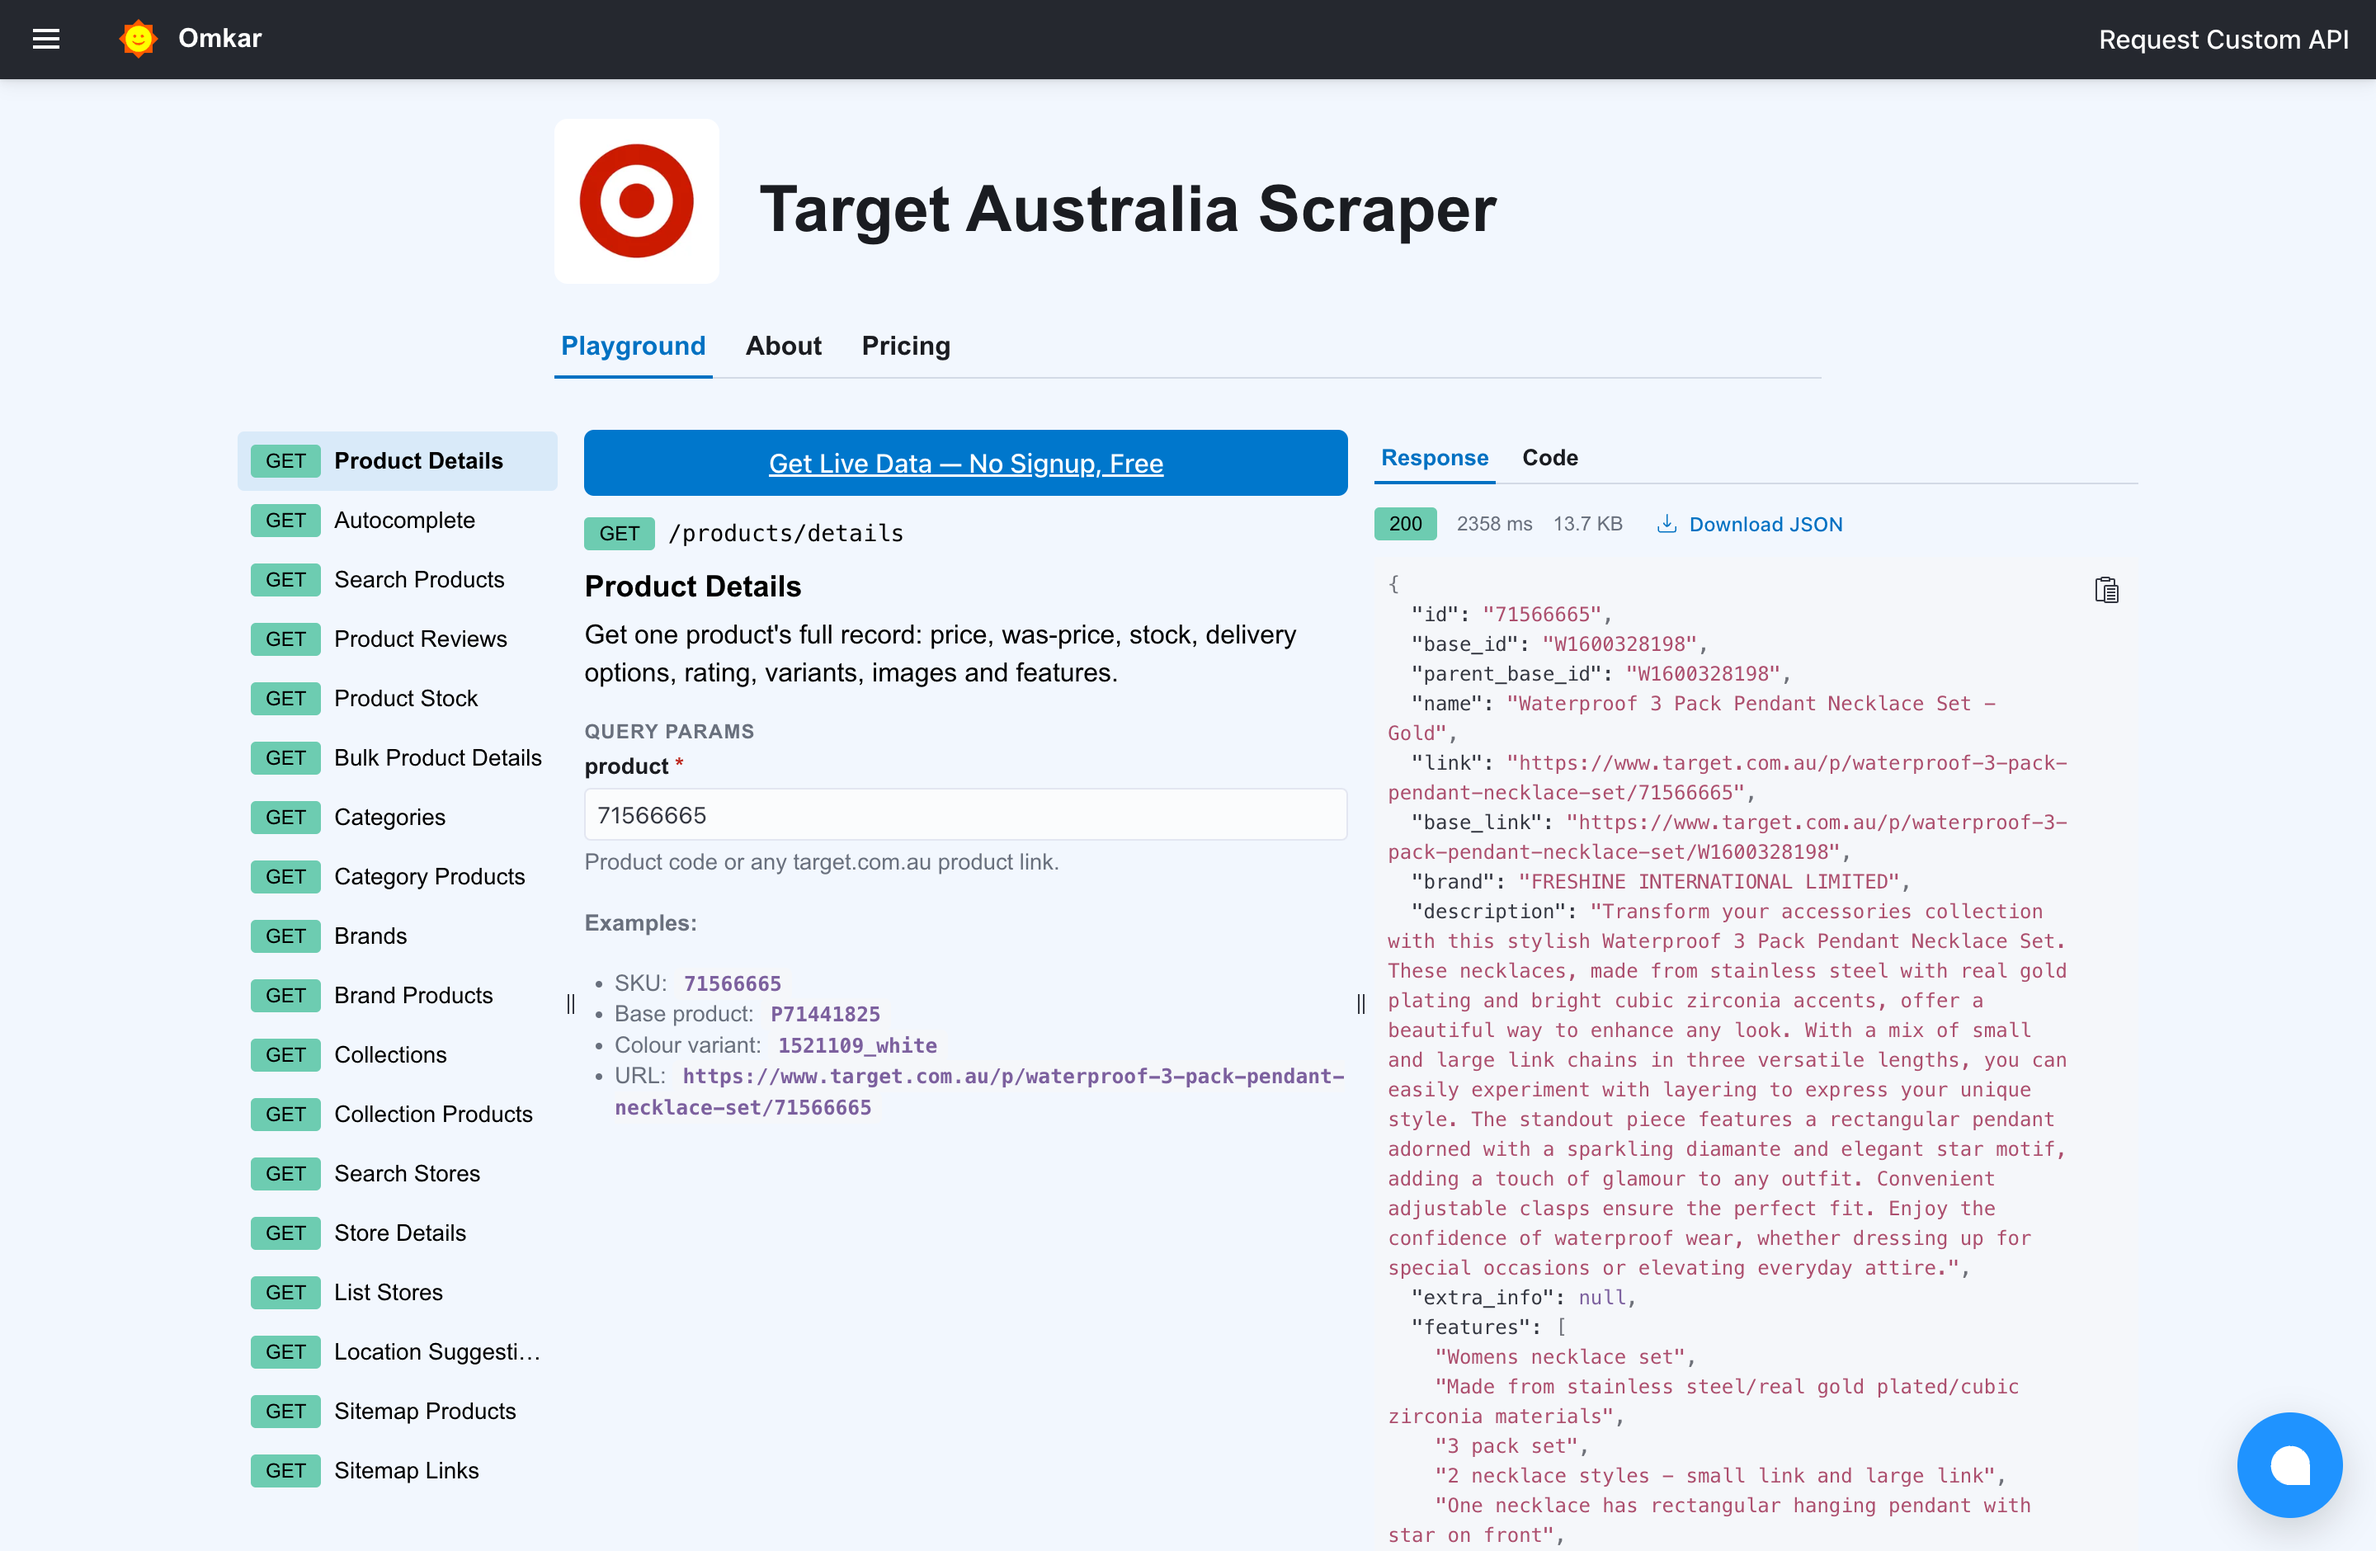
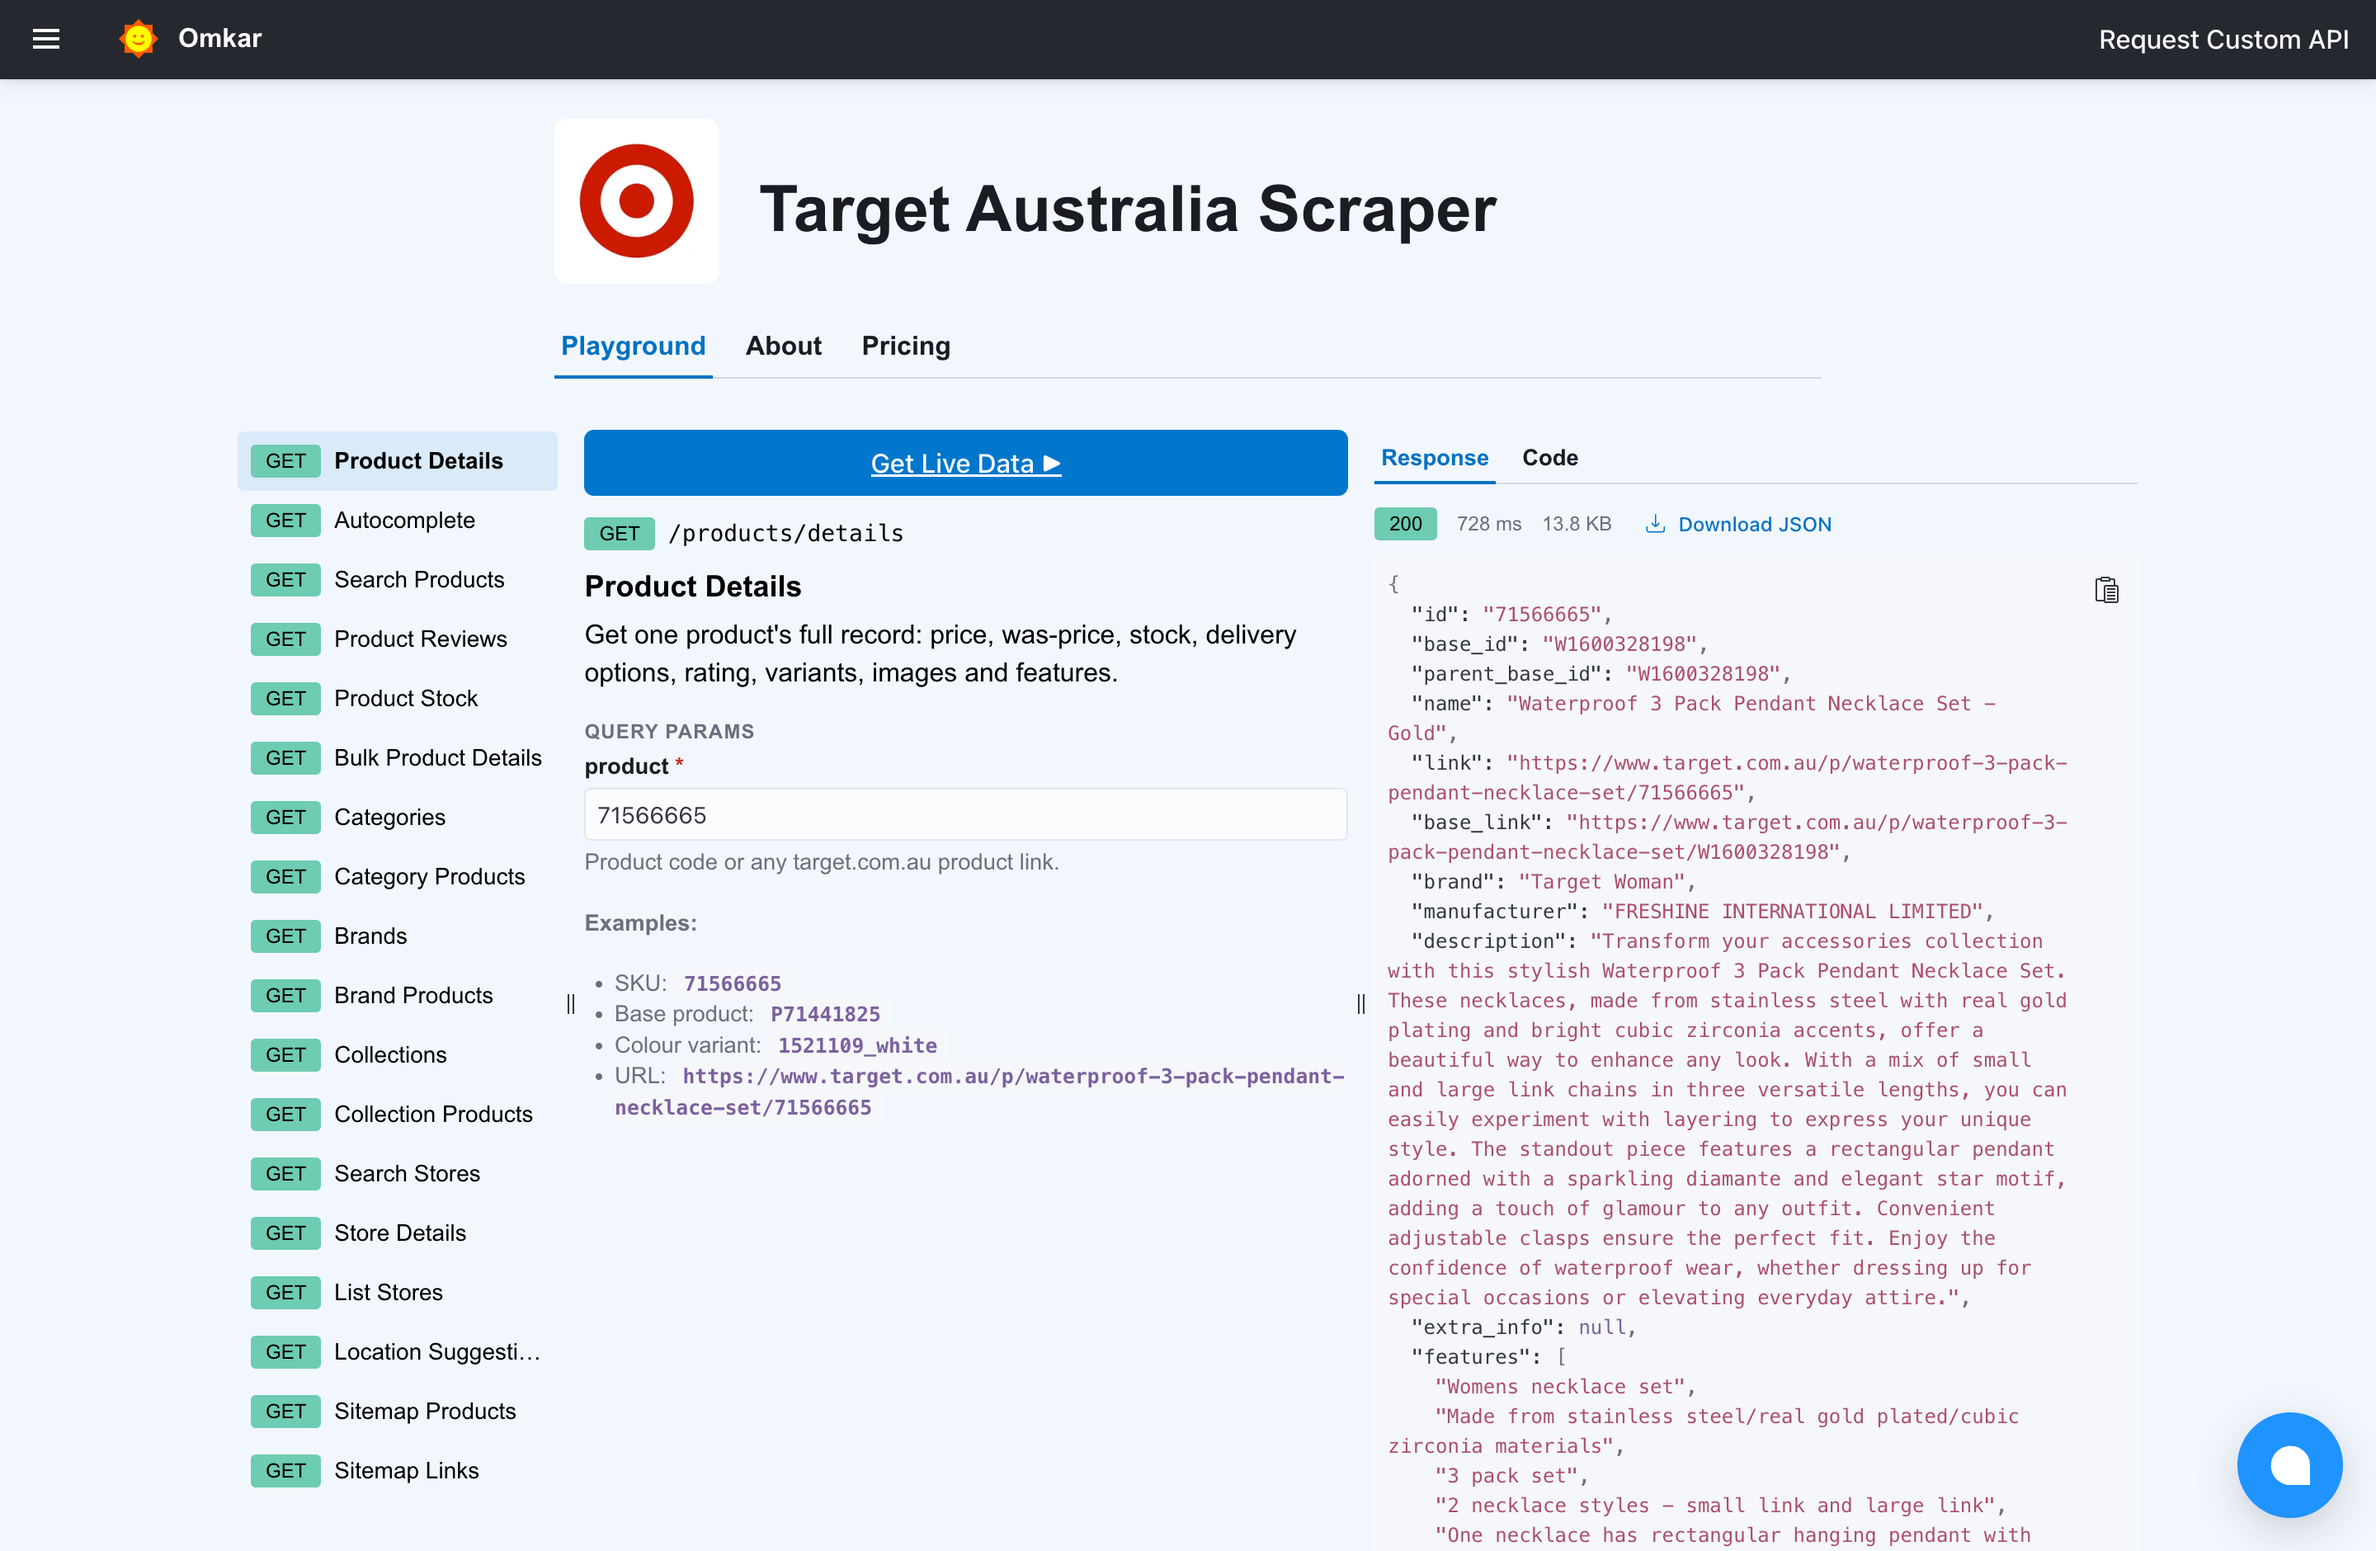
Updated files

Changed region(s): [[0.5625, 0.5553, 0.875, 1.0], [0.3125, 0.2777, 0.5, 0.3085]]

diff --git a/target_australia/test_parsers.py b/target_australia/test_parsers.py
@@ -37,6 +37,8 @@ def fixture(name):
     ("w1521109", "W1521109"),
     ("P73493297", "P73493297"),
     ("5000322001FL_amber", "5000322001FL_amber"),
+    ("W220MILAHRFL1", "W220MILAHRFL1"),          # alphanumeric base a listing returns
+    ("w220milahrfl1", "W220MILAHRFL1"),
     ("https://www.target.com.au/p/arlo-stonewash-sheet-set/1521109_white", "1521109_white"),
     ("https://www.target.com.au/p/63681024?x=1", "63681024"),
     ("www.target.com.au/p/some-slug/W1521109", "W1521109"),
@@ -46,7 +48,7 @@ def test_resolve_product(value, expected):
 
 
 @pytest.mark.parametrize("value", ["", "sheet set", "https://example.com/p/63681024",
-                                   "https://www.target.com.au/c/toys/W138532", "abc"])
+                                   "https://www.target.com.au/c/toys/W138532", "abc", "Wonder"])
 def test_resolve_product_rejects(value):
     with pytest.raises(ValueError):
         refs.resolve_product(value)

diff --git a/target_australia/refs.py b/target_australia/refs.py
@@ -29,7 +29,10 @@ SITE = "https://www.target.com.au"
 ASSETS = "https://assets.target.com.au"
 ALL_PRODUCTS = "AP01"   # the root group of the search engine's category tree
 
-PRODUCT_CODE_RE = re.compile(r"^[WP]?\d{5,12}[A-Z]{0,3}(?:_[A-Za-z0-9-]{1,40})?$", re.I)
+# SKU 63681024, colour variant 1521109_white, base W1521109 / P73493297, and
+# the alphanumeric bases listings carry for own-brand apparel (W220MILAHRFL1)
+PRODUCT_CODE_RE = re.compile(
+    r"^(?:[WP]?\d{5,12}[A-Z]{0,3}|[WP](?=[A-Z0-9]*\d)[A-Z0-9]{5,20})(?:_[A-Za-z0-9-]{1,40})?$", re.I)
 CATEGORY_CODE_RE = re.compile(r"^(?:W\d{4,12}|AP01)$", re.I)
 SLUG_RE = re.compile(r"^[A-Za-z0-9][A-Za-z0-9._-]{0,120}$")
 STORE_NUMBER_RE = re.compile(r"^\d{3,6}$")

diff --git a/target_australia/api.py b/target_australia/api.py
@@ -29,7 +29,7 @@ from target_australia.fetch import (TargetNotFound, fetch_brand_page, fetch_bran
                                     fetch_sitemap, fetch_stock, fetch_store_finder, fetch_store_page)
 
 NS = "target_australia"
-_BASE_CODE_RE = re.compile(r"^[WP]\d+$")
+_BASE_CODE_RE = re.compile(r"^[WP](?=[A-Z0-9]*\d)[A-Z0-9]+$")   # W1521109, P73493297, W220MILAHRFL1
 _SKU_RE = re.compile(r"^\d+$")
 MAX_STOCK_SKUS = 60   # one stockStatus call; a base product has up to ~45 SKUs
 
